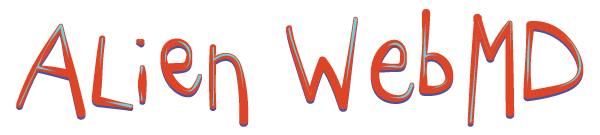
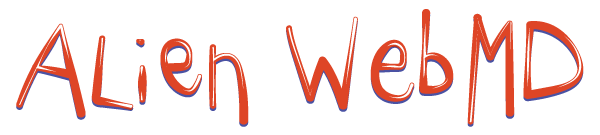
sdf

diff --git a/project/process/proto3/style.css b/project/process/proto3/style.css
@@ -6,15 +6,16 @@ body {
   font-size: 100%;
   font: inherit;
   vertical-align: baseline;
-  font-family: verdana;
+font-family: 'Open Sans', sans-serif;
   font-size: 14px;
+  color: #4b52a3;
 }
 
 header {
   background: #92eaea;
   margin-top: 0px;
   width: 100%;
-  height: 240px;
+  height: 220px;
 }
 
 img.header {
@@ -49,17 +50,21 @@ h1 {
 }
 
 h2 {
+  font-family: 'Inconsolata', monospace;
   font-size: 20px;
   margin-left: 0px;
   float: left;
-    margin-top: 70px;
+    margin-top: 20px;
 }
 
 h3{
-  margin-top: -10px;
-color: #4a7135;
+  margin-top: -13px;
+  margin-left: 28px;
+  color: #4a7135;
+  font-style: italic;
+  font-weight: 400;
+  font-size: 20px;
 }
-
 
 #navbg{
   background-color: #f5ef91;
@@ -68,10 +73,12 @@ color: #4a7135;
 }
 
 nav.main {
+    font-family: 'Inconsolata', monospace;
+    font-weight: bold;
   margin-top: 20px;
   margin-left: auto;
   margin-right: auto;
-  width: 977.5px;
+  width: 860px;
   font-size: 16px;
 }
 
@@ -91,7 +98,7 @@ li a {
   display: block;
   color: #35817f;
   text-align: center;
-  padding: 16px 33px;
+  padding: 14px 26px;
   text-decoration: none;
 }
 
@@ -110,7 +117,7 @@ footer {
   padding-left: 0px;
   padding-right: 0px;
   text-align: center;
-  background-color: #000;
+  background-color: #388482;
   color: #fff;
   width: 100%;
   clear: both;
@@ -124,12 +131,12 @@ footer {
   padding: 20px;
   width: 824px;
   height: 423px;
-  margin-top: 70px;
+  margin-top: 40px;
 }
 
 ul.symcheck {
   list-style-type: none;
-  margin-top: -3px;
+  margin-top: -12px;
     margin-left: -20px;
     width: 824px;
   padding: 0;
@@ -140,6 +147,7 @@ ul.symcheck {
 
 .alien{
   margin-top: 20px;
+  margin-left:30px;
 }
 
 nav.symcheck {
@@ -150,20 +158,20 @@ nav.symcheck {
 li.symcheck {
   color: #ffffff;
   float: left;
-  padding: 14px 30px;
+  padding: 14px 79px;
 }
 
 p.about {
   clear: both;
-  padding: 20px;
+  padding: 24px;
   border-radius: 20px;
-  border: 1px solid black;
-  width: 800px;
-  height: 300px;
+background-color: rgba(255,255,255,0.7);
+  width: 777px;
+  line-height: 24px;
 }
 
 #navline{
   background-color:#388482;
   width: 100%;
-  height: 5px
+  height: 2px
 }

diff --git a/project/process/proto3/index.html b/project/process/proto3/index.html
@@ -5,13 +5,14 @@
     <meta charset="UTF-8">
     <title>Alien WebMD</title>
     <link href="style.css" rel="stylesheet" />
+    <link href="https://fonts.googleapis.com/css?family=Open+Sans:400,700|Inconsolata" rel="stylesheet">
     <script src='script.js' type="text/javascript"></script>
 </head>
 
 <body>
 
   <header id="top">
-      <a href="index.html"><img class="header" width="634" height="149" src="images/title.png"></a>
+      <a href="index.html"><img class="header" width="600" height="135" src="images/title1.png"></a>
 
 
 
@@ -36,7 +37,7 @@
 
 
         <div id="checker">
-                <h3>Symptom Checker</h3>
+                <h3>symptom<b>checker</b></h3>
             <nav class="symcheck">
                 <ul class="symcheck">
                     <li class="symcheck">Choose Body Part</li>
@@ -47,10 +48,21 @@
             <img class="alien" width="161" height="298" src="images/alien.png">
         </div>
 
-<h2 id="about">About</h2>
+<h2 id="about">about Alien WebMD</h2>
 <p class="about">
-  About this zine
-</p>
+  Alien	WebMD is	an Internet	zine	that	visually	expresses a	collective consciousness about
+  various	topics,	mediated	through	the	unique	and	self-referential	language	and
+  framework	of	the	Internet,	using illustrations,	audio,	gifs,	memes,	video,	prose,	popups,
+  essays,	and	images	collaged	together.	The	zine further explores	virtual	renditions	of	real
+  and	imagined	places	as	interpreted through	the lens	of	DIY	web	technology,	and	invites
+  a	non-hierarchical exploration of	interactive	webpages.	The	zine’s	issues	are	generated
+  by	the	collective	efforts	of	digital	artists	whose work	is	based	on	a	unifying theme.	In	a
+  world	in	which	our	perceptions	are	constantly	informed	by	the	technologies	we	use,	our
+  memories	are	created	by	the	way	we	curate	lives	over	Internet	media.	This	zine	serves
+  as	a	sort	of	memory	archive,	collective	journal,	and	exercise	in	digital world	building,
+  with	a	nod	to	a	pre-Web	2.0	ethos. In	this	respect,	Alien	WebMD	showcases	an
+  intellectual	and	artistic heritage	of	media	in	a	global,	amorphous, yet	distinct and
+  celebrated place:	the	web.</p>
 
 
 
